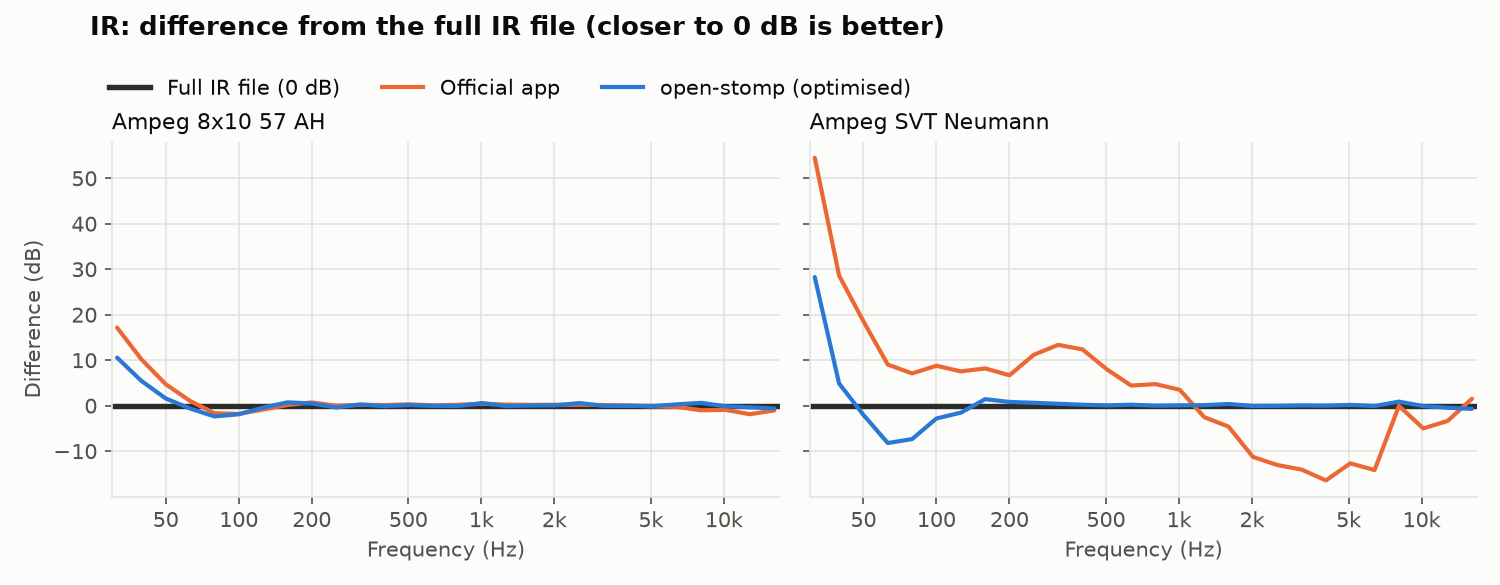
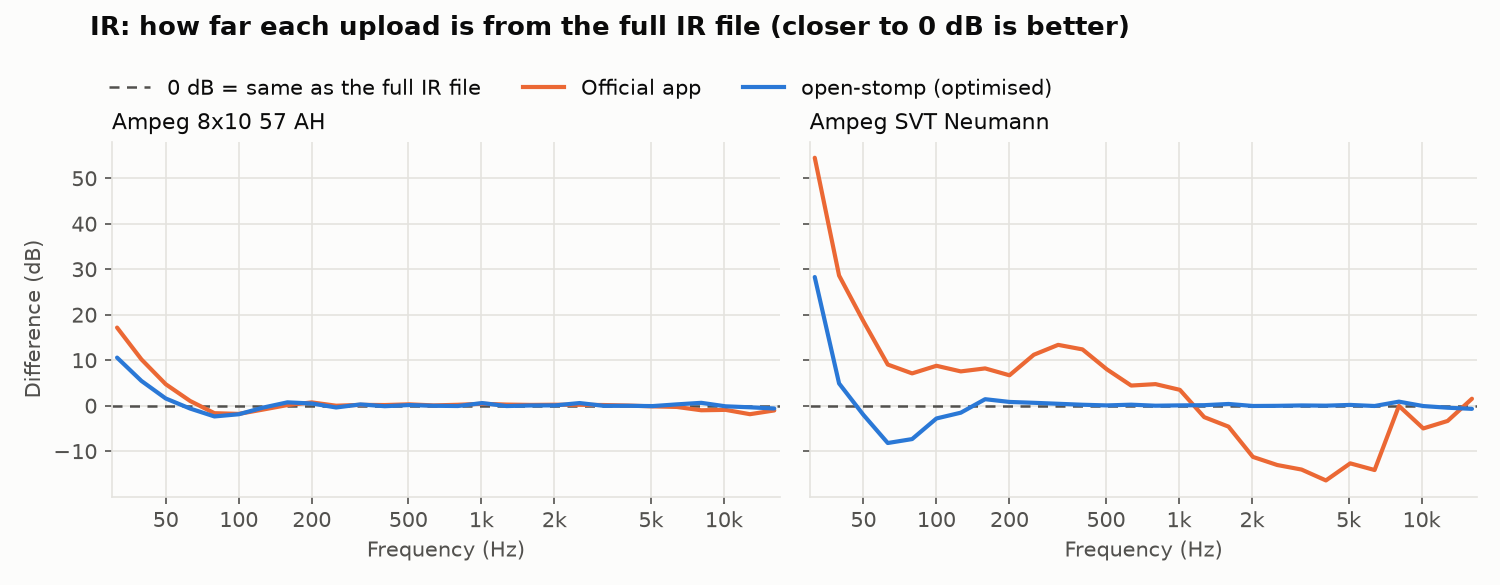
README graphs: draw 0 dB as a dashed reference line, not a data series

Changed region(s): [[0.0613, 0.1231, 0.7053, 0.1846], [0.0613, 0.6769, 0.9813, 0.7077], [0.092, 0.0, 0.7667, 0.0615]]

diff --git a/tools/pedalsim/readme_plots.py b/tools/pedalsim/readme_plots.py
@@ -94,7 +94,7 @@ def figure(panels, bands, path, title, ref_label, diff, shape):
         style(ax, name)
         ref = np.array(curves["real"])
         if diff:
-            ax.axhline(0, color=REF, lw=2.6)
+            ax.axhline(0, color=MUTED, lw=1.2, ls=(0, (4, 3)))   # the reference minus itself
         else:
             ax.plot(bands, ref, color=REF, lw=2.6, solid_capstyle="round")
         for key, label, color in CONVERSIONS:
@@ -104,7 +104,8 @@ def figure(panels, bands, path, title, ref_label, diff, shape):
             ax.plot(bands, y - ref if diff else y, color=color, lw=2.0, solid_capstyle="round")
     for ax in axes[-1]: ax.set_xlabel("Frequency (Hz)")
     for ax in axes[:, 0]: ax.set_ylabel("Difference (dB)" if diff else "Level (dB, matched)")
-    handles = [plt.Line2D([], [], color=REF, lw=2.6, label=ref_label + (" (0 dB)" if diff else ""))] + \
+    handles = [plt.Line2D([], [], color=MUTED, lw=1.2, ls=(0, (4, 3)), label=f"0 dB = same as the {ref_label[0].lower() + ref_label[1:]}")
+               if diff else plt.Line2D([], [], color=REF, lw=2.6, label=ref_label)] + \
               [plt.Line2D([], [], color=c, lw=2.0, label=l) for _, l, c in CONVERSIONS]
     h = 3.3 * rows + 0.6   # header in inches from the top: title, legend, then the panels
     fig.text(0.06, 1 - 0.1 / h, title, ha="left", va="top", fontsize=12.5, color=INK, weight="bold")
@@ -121,7 +122,7 @@ panels = [(f"Input {k.split()[1]} dBFS", {s: nam[s][k] for s in ("real", "offici
 figure(panels, nb, OUT / "nam-frequency-response.png",
        "NAM on the pedal: Ampeg SVT bass model (levels matched)", "Real NAM model", False, (2, 2))
 figure(panels, nb, OUT / "nam-frequency-error.png",
-       "NAM: difference from the real model (closer to 0 dB is better)", "Real NAM model", True, (2, 2))
+       "NAM: how far each upload is from the real model (closer to 0 dB is better)", "Real NAM model", True, (2, 2))
 
 irs = json.load(open(IR_CACHE))
 ib = np.array(irs["bands"])
@@ -129,4 +130,4 @@ panels = list(irs["irs"].items())
 figure(panels, ib, OUT / "ir-frequency-response.png",
        "IR on the pedal: Ampeg SVT cab IRs (levels matched)", "Full IR file", False, (1, 2))
 figure(panels, ib, OUT / "ir-frequency-error.png",
-       "IR: difference from the full IR file (closer to 0 dB is better)", "Full IR file", True, (1, 2))
+       "IR: how far each upload is from the full IR file (closer to 0 dB is better)", "Full IR file", True, (1, 2))
